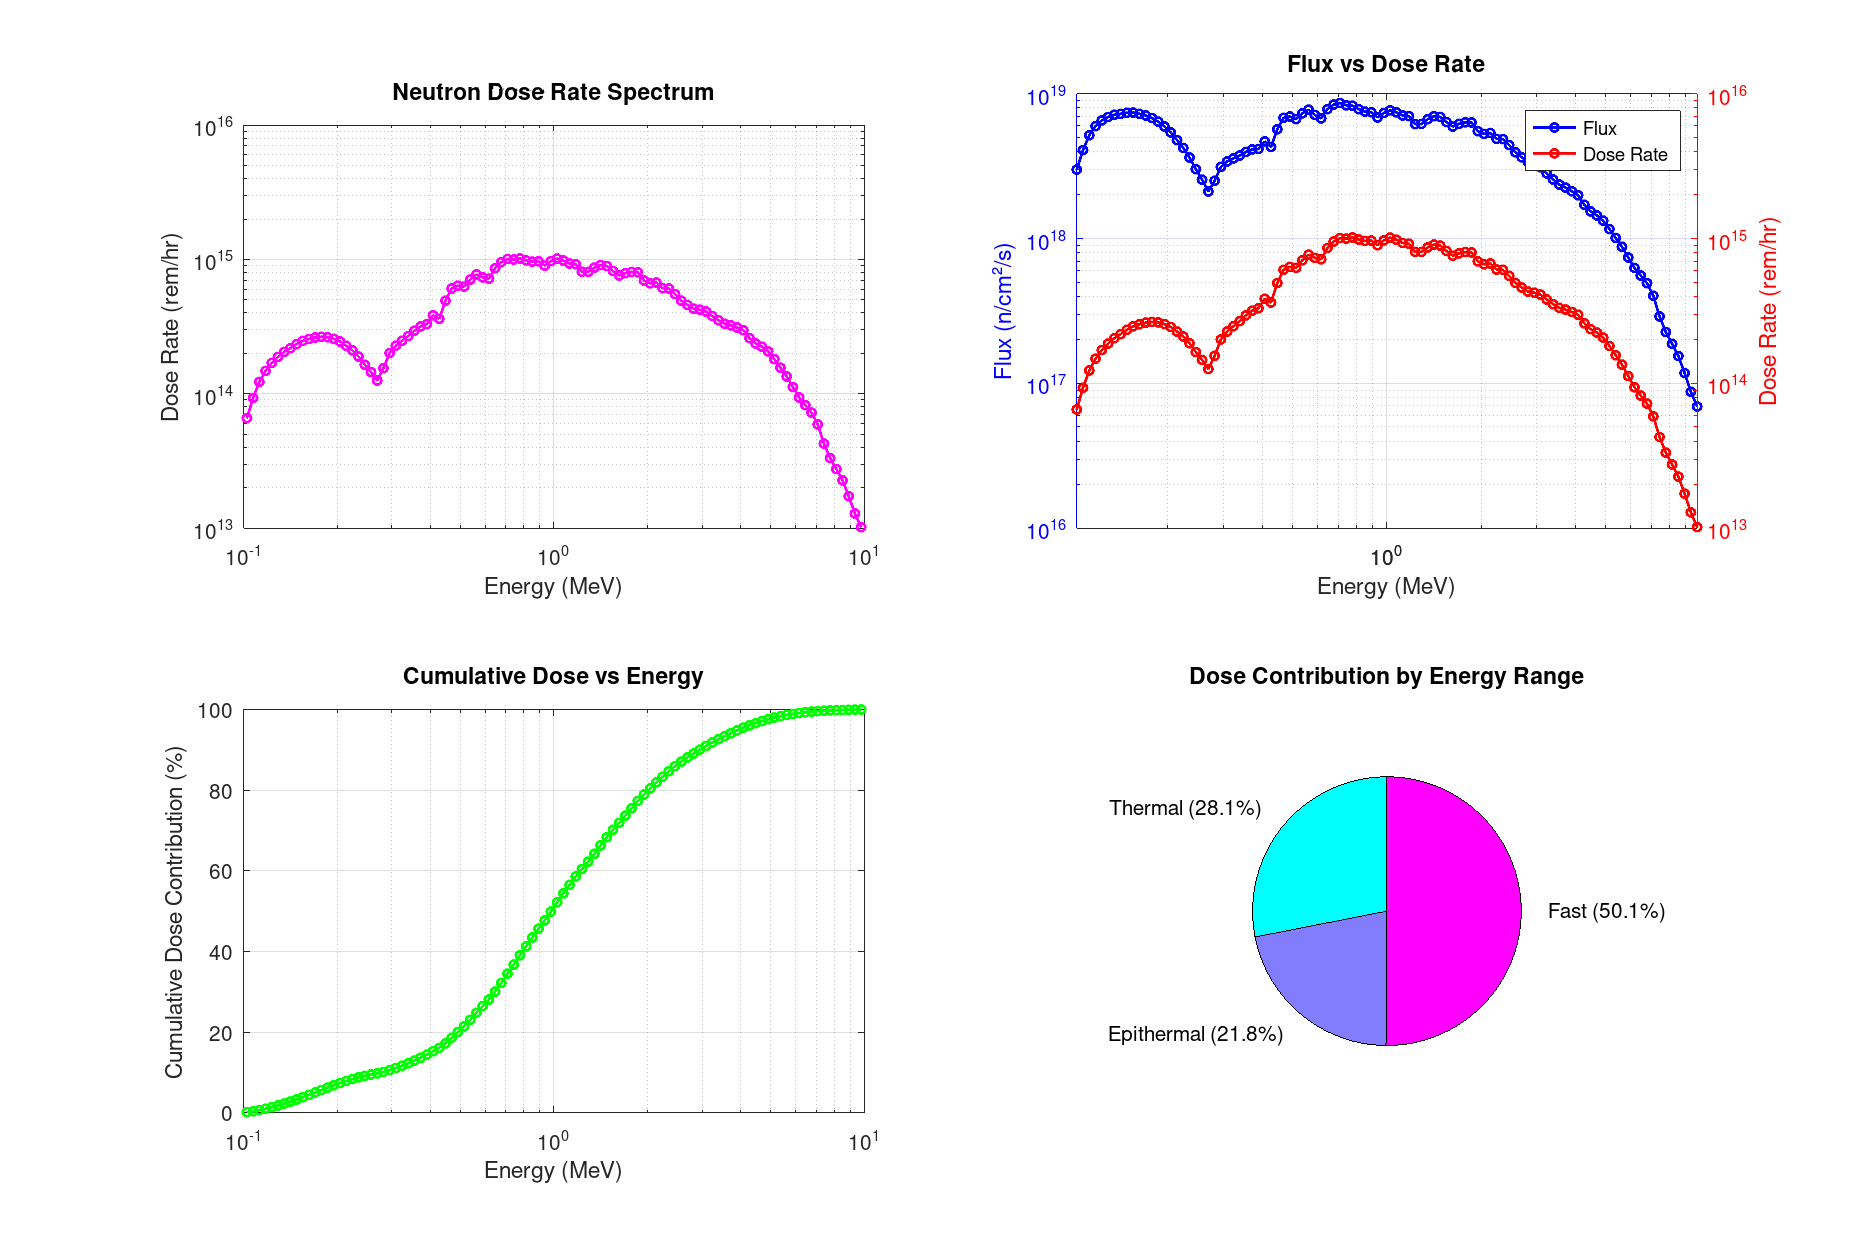
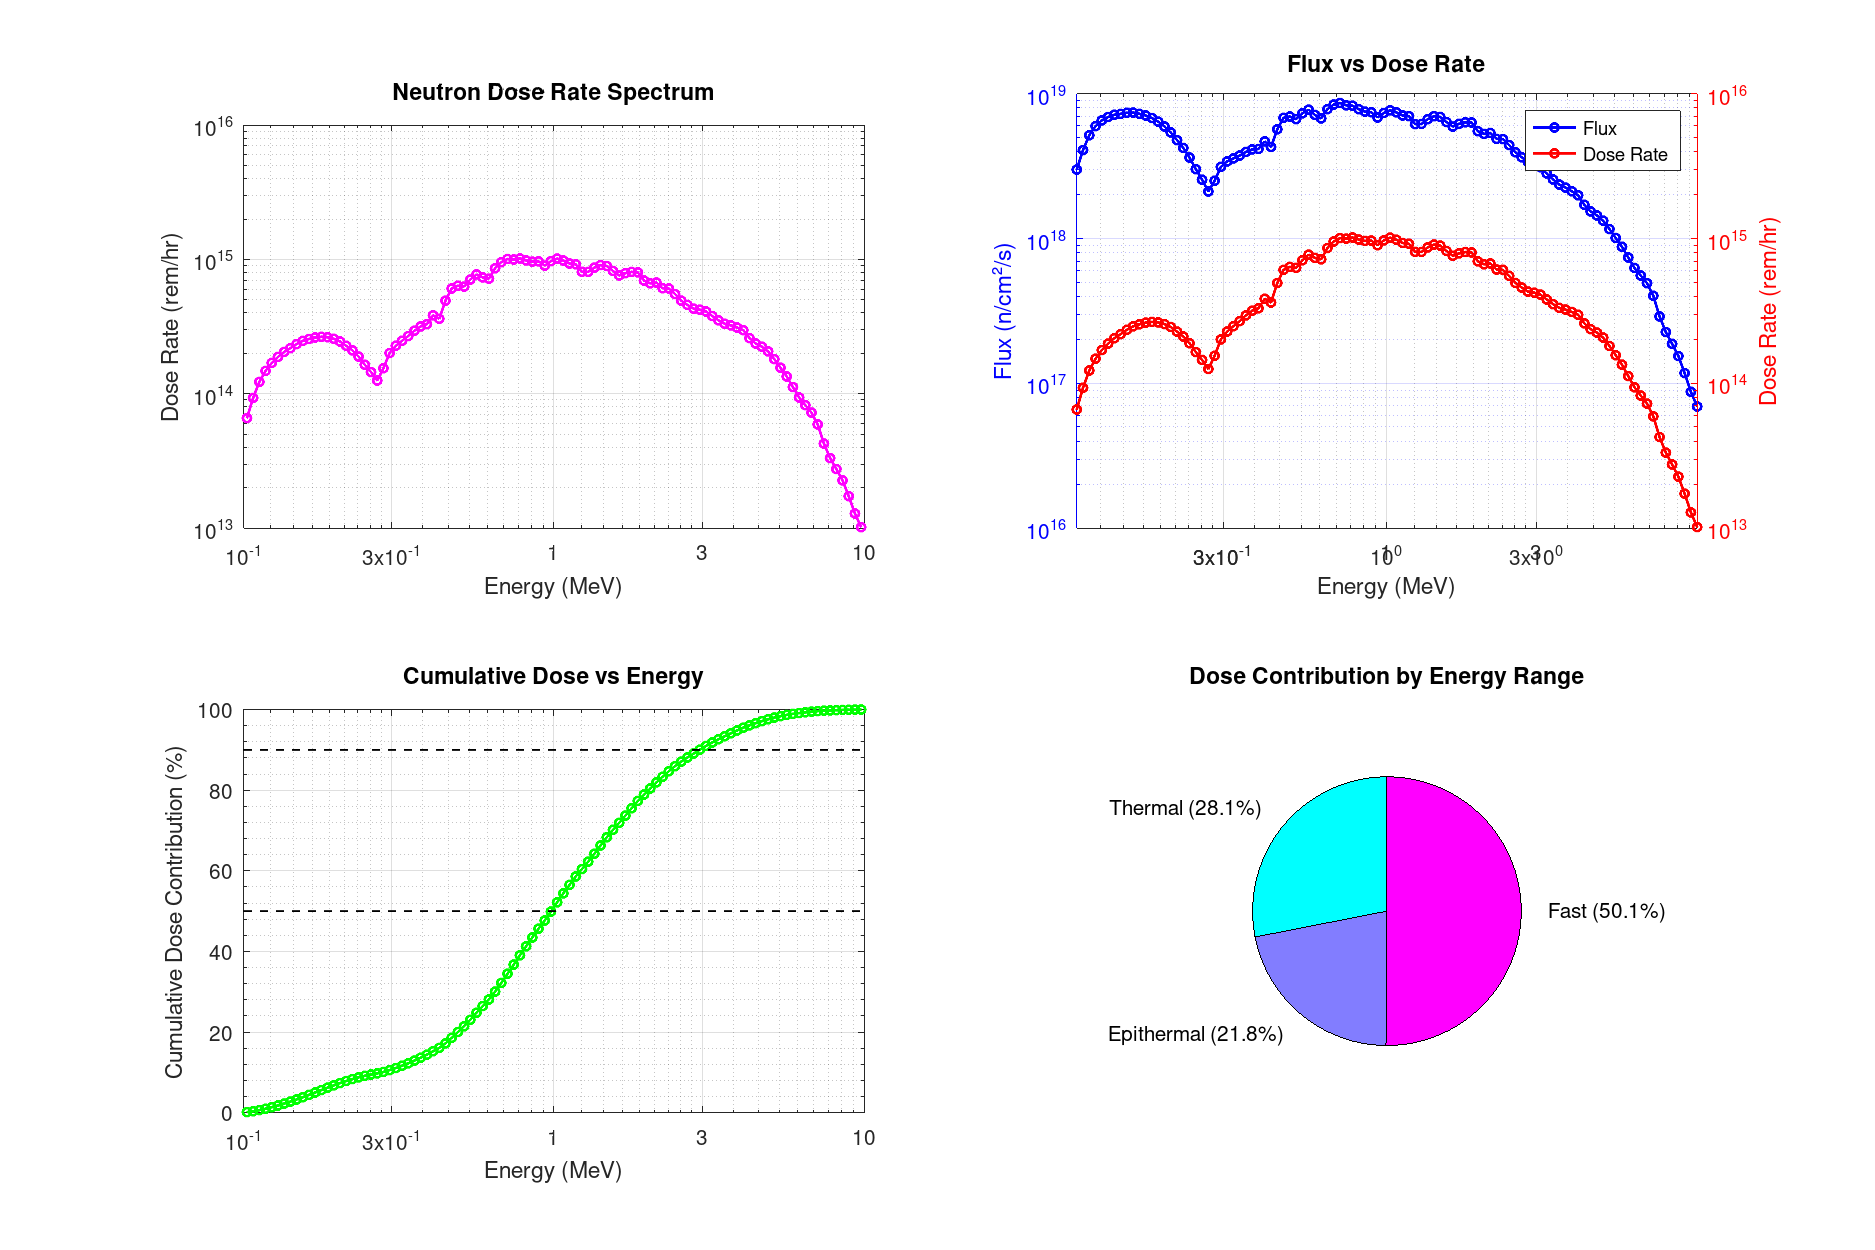
yep

Changed region(s): [[0.8043, 0.4368, 0.8352, 0.468], [0.1856, 0.9048, 0.2165, 0.936], [0.1856, 0.4368, 0.2165, 0.468]]

diff --git a/analyzev4.m b/analyzev4.m
@@ -149,33 +149,6 @@ if exist('DETFluxDetE', 'var') && exist('DETFluxDet', 'var')
     ylabel('Neutron Flux (n/cm²/s)');
     title('Neutron Energy Spectrum (log-log)');
     
-    % Set more detailed x-axis ticks
-    xticks = [1e-8, 3e-8, 1e-7, 3e-7, 1e-6, 3e-6, 1e-5, 3e-5, 1e-4, 3e-4, ...
-              1e-3, 3e-3, 1e-2, 3e-2, 1e-1, 3e-1, 1, 3, 10, 20];
-    set(gca, 'XTick', xticks);
-    
-    % Create custom tick labels
-    xticklabels = {};
-    for i = 1:length(xticks)
-        if xticks(i) >= 1
-            xticklabels{i} = num2str(xticks(i));
-        else
-            exp_val = floor(log10(xticks(i)));
-            mantissa = xticks(i) / 10^exp_val;
-            if abs(mantissa - 1) < 1e-10
-                xticklabels{i} = sprintf('10^{%d}', exp_val);
-            else
-                xticklabels{i} = sprintf('%gx10^{%d}', mantissa, exp_val);
-            end
-        end
-    end
-    set(gca, 'XTickLabel', xticklabels);
-    set(gca, 'XTickLabelRotation', 45);
-    
-    % Add minor grid
-    set(gca, 'XMinorTick', 'on', 'YMinorTick', 'on');
-    grid(gca, 'minor');
-    
     % Plot flux spectrum (linear-log scale)
     subplot(2,2,2);
     semilogx(energy_bins, flux_per_energy, 'b-o', 'LineWidth', 1.5, 'MarkerSize', 4);
@@ -187,17 +160,6 @@ if exist('DETFluxDetE', 'var') && exist('DETFluxDet', 'var')
     ylabel('Neutron Flux (n/cm²/s)');
     title('Neutron Energy Spectrum (linear-log)');
     
-    % Set more detailed x-axis ticks
-    xticks = [1e-8, 3e-8, 1e-7, 3e-7, 1e-6, 3e-6, 1e-5, 3e-5, 1e-4, 3e-4, ...
-              1e-3, 3e-3, 1e-2, 3e-2, 1e-1, 3e-1, 1, 3, 10, 20];
-    set(gca, 'XTick', xticks);
-    set(gca, 'XTickLabel', xticklabels);
-    set(gca, 'XTickLabelRotation', 45);
-    
-    % Add minor grid
-    set(gca, 'XMinorTick', 'on', 'YMinorTick', 'on');
-    grid(gca, 'minor');
-    
     % Plot relative errors
     subplot(2,2,3);
     semilogx(energy_bins, rel_errors * 100, 'r-o', 'LineWidth', 1.5, 'MarkerSize', 4);
@@ -205,15 +167,6 @@ if exist('DETFluxDetE', 'var') && exist('DETFluxDet', 'var')
     xlabel('Energy (MeV)');
     ylabel('Relative Error (%)');
     title('Relative Errors in Flux Measurements');
-    
-    % Set more detailed x-axis ticks
-    set(gca, 'XTick', xticks);
-    set(gca, 'XTickLabel', xticklabels);
-    set(gca, 'XTickLabelRotation', 45);
-    
-    % Add minor grid
-    set(gca, 'XMinorTick', 'on', 'YMinorTick', 'on');
-    grid(gca, 'minor');
     
     % Calculate integral quantities (in neutrons/cm²/s)
     thermal_flux = sum(flux_values(energy_bins < 0.625));
@@ -321,12 +274,11 @@ if exist('energy_bins', 'var') && exist('flux_values', 'var')
     ylabel('Dose Rate (rem/hr)');
     title('Neutron Dose Rate Spectrum');
     
-    % Set more detailed x-axis ticks
-    xticks = [1e-8, 3e-8, 1e-7, 3e-7, 1e-6, 3e-6, 1e-5, 3e-5, 1e-4, 3e-4, ...
-              1e-3, 3e-3, 1e-2, 3e-2, 1e-1, 3e-1, 1, 3, 10, 20];
+    % Set custom x-axis ticks for better readability
+    xticks = [1e-8, 1e-7, 1e-6, 1e-5, 1e-4, 1e-3, 1e-2, 1e-1, 1, 10, 20];
     set(gca, 'XTick', xticks);
-    set(gca, 'XTickLabel', xticklabels);
-    set(gca, 'XTickLabelRotation', 45);
+    set(gca, 'XTickLabel', {'10^{-8}', '10^{-7}', '10^{-6}', '10^{-5}', '10^{-4}', ...
+                           '10^{-3}', '10^{-2}', '10^{-1}', '10^0', '10^1', '20'});
     
     % Add minor grid lines
     set(gca, 'XMinorTick', 'on', 'YMinorTick', 'on');
@@ -350,12 +302,12 @@ if exist('energy_bins', 'var') && exist('flux_values', 'var')
         set(ax(1), 'YColor', 'b');
         set(ax(2), 'YColor', 'r');
         
-        % Set more detailed x-axis ticks for both axes
+        % Set custom x-axis ticks for better readability
+        xticks = [1e-8, 1e-7, 1e-6, 1e-5, 1e-4, 1e-3, 1e-2, 1e-1, 1, 10, 20];
         set(ax(1), 'XTick', xticks);
-        set(ax(1), 'XTickLabel', xticklabels);
-        set(ax(1), 'XTickLabelRotation', 45);
+        set(ax(1), 'XTickLabel', {'10^{-8}', '10^{-7}', '10^{-6}', '10^{-5}', '10^{-4}', ...
+                                  '10^{-3}', '10^{-2}', '10^{-1}', '10^0', '10^1', '20'});
         set(ax(2), 'XTick', xticks);
-        set(ax(2), 'XTickLabelRotation', 45);
         
         title('Flux vs Dose Rate');
         grid on;
@@ -374,10 +326,11 @@ if exist('energy_bins', 'var') && exist('flux_values', 'var')
         grid on;
         legend('Flux', 'Dose Rate', 'Location', 'northeast');
         
-        % Set more detailed x-axis ticks
+        % Set custom x-axis ticks for better readability
+        xticks = [1e-8, 1e-7, 1e-6, 1e-5, 1e-4, 1e-3, 1e-2, 1e-1, 1, 10, 20];
         set(gca, 'XTick', xticks);
-        set(gca, 'XTickLabel', xticklabels);
-        set(gca, 'XTickLabelRotation', 45);
+        set(gca, 'XTickLabel', {'10^{-8}', '10^{-7}', '10^{-6}', '10^{-5}', '10^{-4}', ...
+                               '10^{-3}', '10^{-2}', '10^{-1}', '10^0', '10^1', '20'});
     end
     
     % Plot 3: Cumulative dose contribution
@@ -389,10 +342,11 @@ if exist('energy_bins', 'var') && exist('flux_values', 'var')
     ylabel('Cumulative Dose Contribution (%)');
     title('Cumulative Dose vs Energy');
     
-    % Set more detailed x-axis ticks
+    % Set custom x-axis ticks for better readability
+    xticks = [1e-8, 1e-7, 1e-6, 1e-5, 1e-4, 1e-3, 1e-2, 1e-1, 1, 10, 20];
     set(gca, 'XTick', xticks);
-    set(gca, 'XTickLabel', xticklabels);
-    set(gca, 'XTickLabelRotation', 45);
+    set(gca, 'XTickLabel', {'10^{-8}', '10^{-7}', '10^{-6}', '10^{-5}', '10^{-4}', ...
+                           '10^{-3}', '10^{-2}', '10^{-1}', '10^0', '10^1', '20'});
     
     % Add reference lines (Octave-compatible)
     hold on;
@@ -586,11 +540,6 @@ xlabel('Energy (MeV)');
 ylabel('Neutron Flux (n/cm²/s)');
 title('Simulated Neutron Spectrum');
 
-% Set more detailed x-axis ticks
-set(gca, 'XTick', xticks);
-set(gca, 'XTickLabel', xticklabels);
-set(gca, 'XTickLabelRotation', 45);
-
 % Energy grid for lethargy plot
 subplot(1,2,2);
 semilogx(energy_bins, flux_per_energy .* energy_bins, 'r-o', 'LineWidth', 1.5, 'MarkerSize', 4);
@@ -598,12 +547,6 @@ grid on;
 xlabel('Energy (MeV)');
 ylabel('E×Φ(E) (n/cm²/s)');
 title('Flux per Unit Lethargy');
-
-% Set more detailed x-axis ticks
-set(gca, 'XTick', xticks);
-set(gca, 'XTickLabel', xticklabels);
-set(gca, 'XTickLabelRotation', 45);
-
 saveas(gcf, 'flux_lethargy_analysis.png');
 
 % Export data to CSV for further analysis
